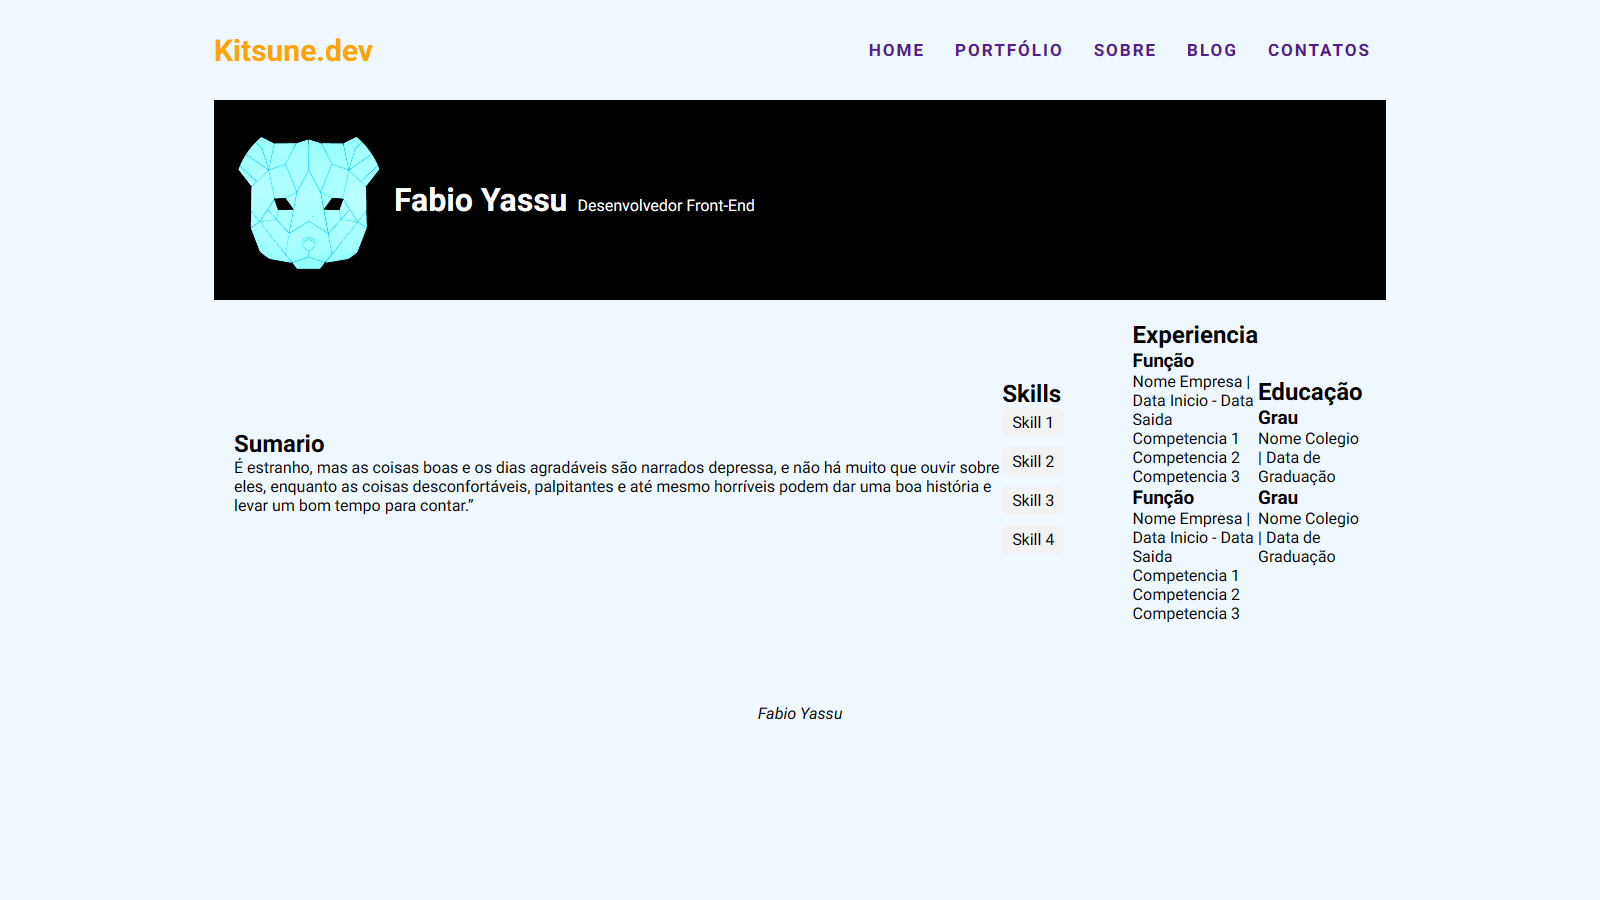
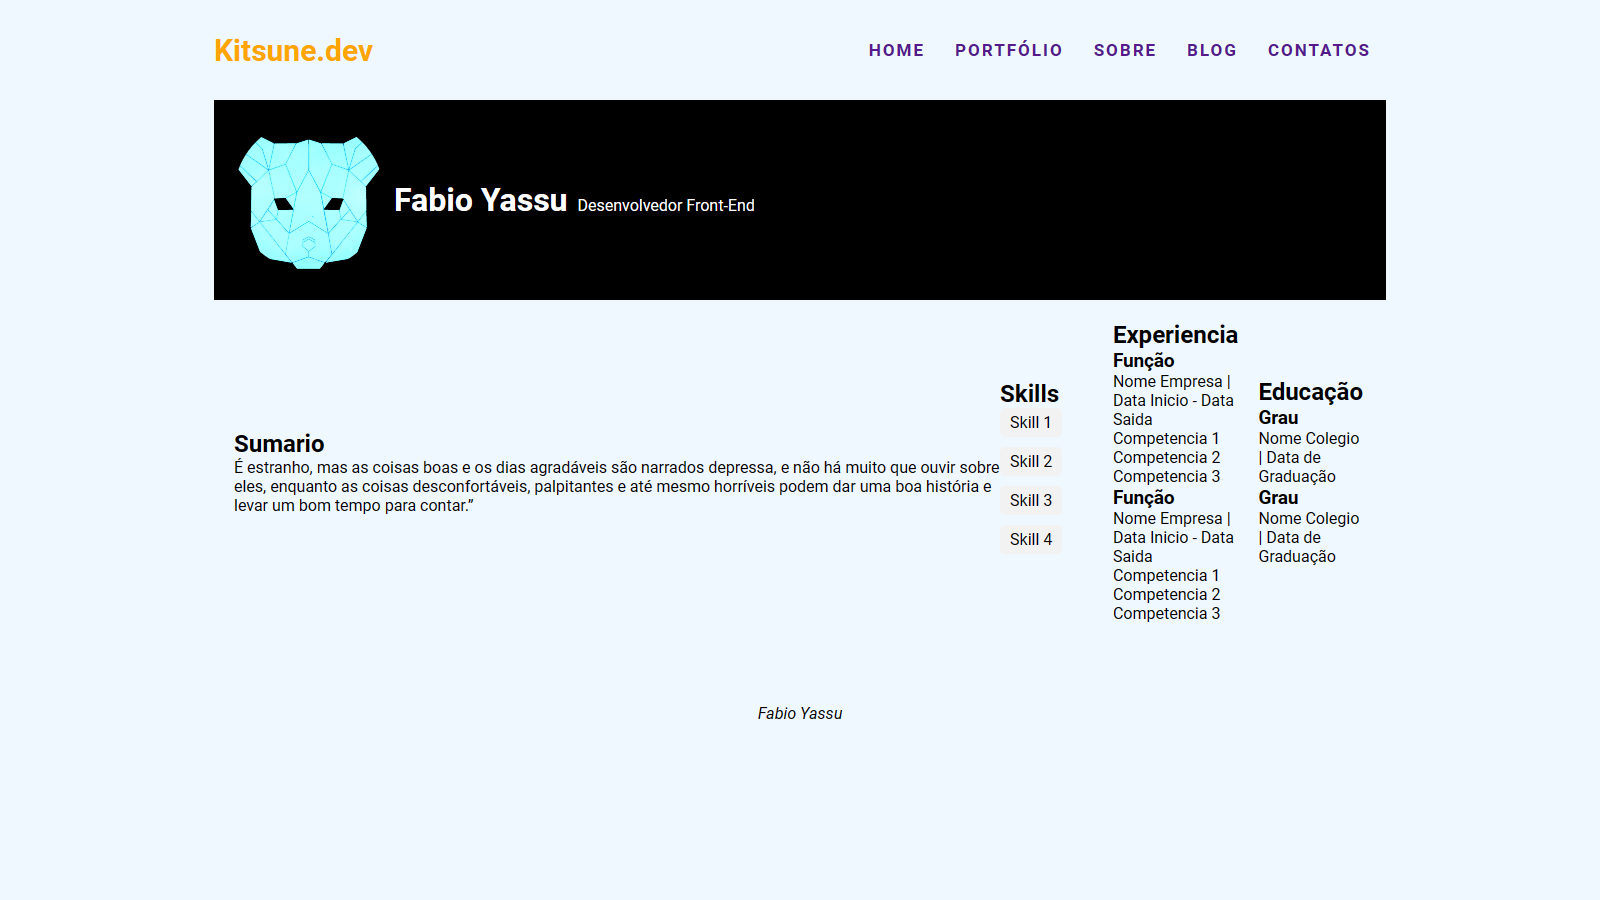
docs: correção texto

diff --git a/css/stylesSobre.css b/css/stylesSobre.css
@@ -38,15 +38,18 @@ header {
   
   .skills li {
     display: inline-block;
-    margin-right: 10px;
     margin-bottom: 10px;
     padding: 5px 10px;
     background-color: #f2f2f2;
     border-radius: 5px;
   }
+
+  .experience {
+    margin-right: 20px;
+  }
   
   .experience h3, .education h3 {
-    margin-bottom: 0;
+    margin-bottom: 0;    
   }
   
   ul {
